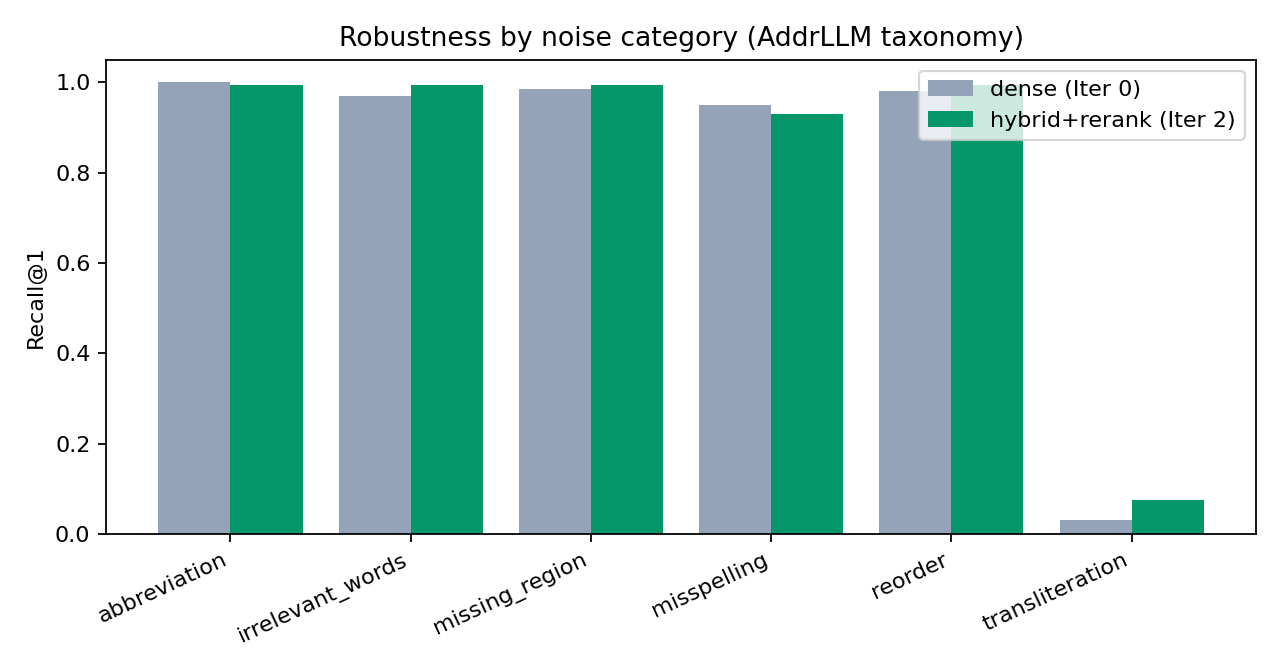
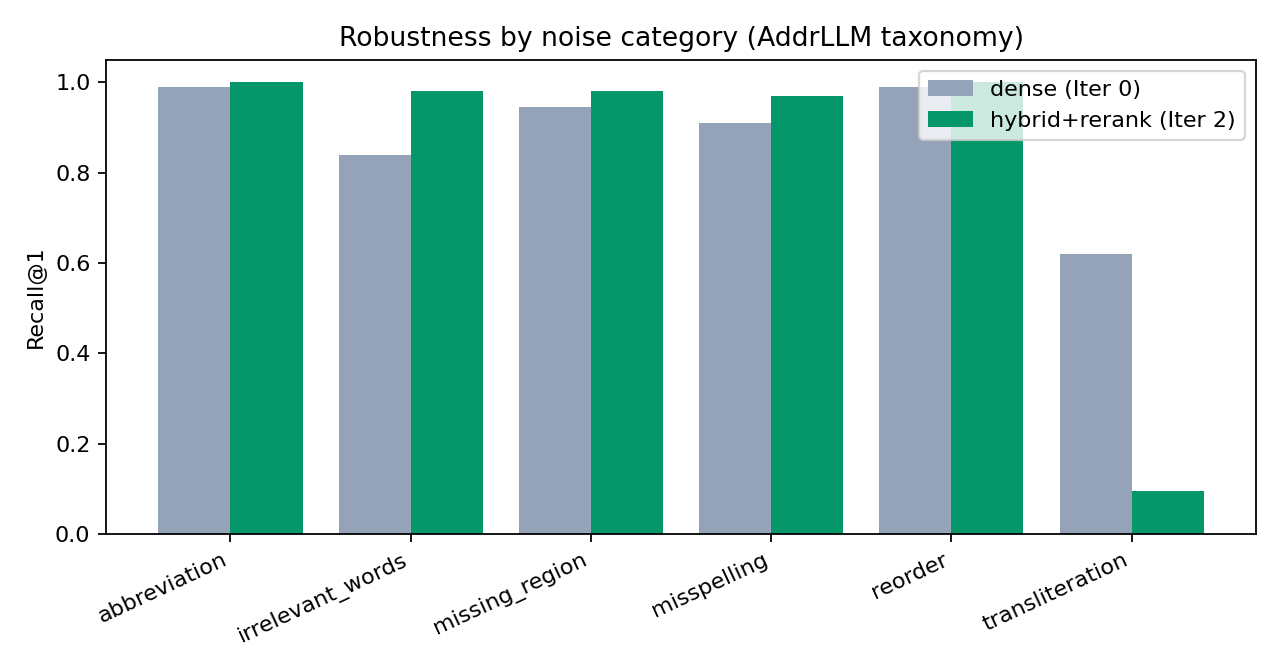
Add defense presentation (6 mandatory questions) + neural-vs-char figure

diff --git a/presentation.html b/presentation.html
@@ -1,0 +1,184 @@
+<!DOCTYPE html>
+<html lang="ru">
+<head>
+<meta charset="UTF-8">
+<meta name="viewport" content="width=device-width, initial-scale=1.0">
+<title>Нормализация адресов — защита проекта</title>
+<style>
+  :root{--bg:#0f1117;--panel:#171a23;--text:#e6e9ef;--muted:#9aa3b2;--accent:#6ea8fe;--accent2:#7ee787;--border:#262b38;--code:#1d212c;--warn:#ffbf69}
+  *{box-sizing:border-box}
+  body{margin:0;background:var(--bg);color:var(--text);font:17px/1.55 -apple-system,Segoe UI,Roboto,Arial,sans-serif}
+  .slide{min-height:100vh;padding:6vh 8vw;border-bottom:1px solid var(--border);display:flex;flex-direction:column;justify-content:center;position:relative}
+  .num{position:absolute;top:18px;right:26px;color:var(--muted);font-size:13px}
+  .q{color:var(--accent);font-size:14px;letter-spacing:.08em;text-transform:uppercase;margin-bottom:8px}
+  h1{font-size:40px;margin:0 0 10px;line-height:1.15}
+  h2{font-size:30px;margin:0 0 16px;line-height:1.2}
+  p{margin:8px 0;font-size:19px}
+  ul{margin:8px 0;padding-left:24px}
+  li{margin:7px 0;font-size:18px}
+  strong{color:#fff}
+  code{font-family:Consolas,Monaco,monospace;background:var(--code);padding:1px 6px;border-radius:5px;color:#d9e1ff;font-size:.88em}
+  .flow{background:var(--code);border-left:3px solid var(--accent);border-radius:8px;padding:12px 16px;margin:12px 0;font-family:Consolas,Monaco,monospace;color:#cfe2ff;overflow-x:auto;font-size:15px;white-space:pre;line-height:1.5}
+  .key{border-left:3px solid var(--accent2);background:rgba(126,231,135,.08);padding:12px 16px;border-radius:8px;margin:12px 0;font-size:18px}
+  .warn{border-left:3px solid var(--warn);background:rgba(255,191,105,.09);padding:12px 16px;border-radius:8px;margin:12px 0;font-size:18px}
+  table{border-collapse:collapse;margin:12px 0;font-size:17px}
+  th,td{border:1px solid var(--border);padding:8px 14px;text-align:left}
+  th{background:var(--panel);color:#fff}
+  img{max-width:min(760px,80vw);border:1px solid var(--border);border-radius:8px;margin:10px 0}
+  .big{font-size:26px;color:var(--accent2);font-weight:600}
+  @media print{body{font-size:13px}.slide{min-height:auto;page-break-after:always;border:none;padding:14mm}img{max-width:150mm}@page{size:A4 landscape;margin:0}}
+</style>
+</head>
+<body>
+
+<section class="slide">
+  <div class="num">1</div>
+  <h1>🏠 Нормализация адресов<br>через векторный поиск</h1>
+  <p style="color:var(--muted)">Deep Learning for Search 2026 · Innopolis · вдохновлено AddrLLM (JD Logistics, SIGIR-класс, arXiv 2411.13584)</p>
+  <p class="big">Грязная строка адреса → канонический объект с координатами</p>
+</section>
+
+<section class="slide">
+  <div class="num">2</div>
+  <div class="q">Вопрос 1 — ценность и кому нужно</div>
+  <h2>Value proposition</h2>
+  <p><strong>Проблема:</strong> адреса приходят в свободной форме — опечатки, сокращения, транслит, пропуски, перестановки. Это ломает доставку, дедупликацию клиентов, геокодинг, KYC.</p>
+  <ul>
+    <li><strong>Кому:</strong> логистика/e-commerce, банки/страховые (KYC), гос/ЖКХ, CRM (дедуп).</li>
+    <li><strong>Наше решение:</strong> open-source, self-hosted, офлайн — приватная альтернатива платному DaData.</li>
+    <li><strong>RAG-принцип:</strong> знания в индексе, не в весах → база адресов обновляется <em>без переобучения модели</em>.</li>
+  </ul>
+  <div class="key">Бизнес-эффект (AddrLLM на JD): −43% пересорта посылок, ~$2M/год экономии. Ошибка адреса = реальные деньги.</div>
+</section>
+
+<section class="slide">
+  <div class="num">3</div>
+  <div class="q">Задача</div>
+  <h2>Это не классификация — это поиск (matching)</h2>
+  <div class="flow">Дано:  база N≥500k канонических адресов (с координатами)
+Вход:  грязный адрес q  ("мск ленинский пр-т 12 к3", "ul Baumana 15")
+Цель:  c* = argmax cos(q, c)  →  канонический объект + id + координаты</div>
+  <p>Сигнал смешанный: <strong>семантический</strong> (сокращения, транслит) + <strong>символьный/лексический</strong> (опечатки, номера домов) → это ровно кейс для нейро-эмбеддингов + гибрида.</p>
+</section>
+
+<section class="slide">
+  <div class="num">4</div>
+  <div class="q">Вопрос 2 — архитектура</div>
+  <h2>Архитектура системы</h2>
+  <div class="flow">BUILD (офлайн):
+  OSM (Overpass) → канон.строки + координаты + метаданные
+   → энкодер → векторы → индекс (HNSW / IVF-PQ)
+
+QUERY (онлайн, &lt;100 мс):
+  грязный адрес → энкодер → ANN(HNSW, косинус) → top-k
+   → [опц.] нейро cross-encoder реранк → канонический объект + id + (lat,lon)</div>
+  <p>5 обязательных элементов: <strong>модель</strong> (эмбеддер), <strong>векторная БД</strong> (FAISS/Qdrant), <strong>индекс</strong> (HNSW/IVF-PQ), <strong>поиск</strong> (косинус + гибрид/реранк).</p>
+</section>
+
+<section class="slide">
+  <div class="num">5</div>
+  <div class="q">Вопрос 3 — технологии и обоснование</div>
+  <h2>Ключевые технологии</h2>
+  <table>
+    <tr><th>Компонент</th><th>Выбор</th><th>Почему (по замерам)</th></tr>
+    <tr><td>Данные</td><td>OpenStreetMap / Overpass</td><td>открыто, ≥500k, есть координаты</td></tr>
+    <tr><td>Эмбеддер</td><td>multilingual-e5 / USER-bge-m3</td><td>многоязычный → чинит транслит; 384-d (компактный)</td></tr>
+    <tr><td>Индекс</td><td>FAISS HNSW / IVF-PQ</td><td>×110 быстрее / ×130 меньше памяти</td></tr>
+    <tr><td>Sparse</td><td>char-n-gram + BM25</td><td>устойчивость к опечаткам / точные токены</td></tr>
+    <tr><td>Слияние/реранк</td><td>RRF + cross-encoder</td><td>только где сигналы комплементарны</td></tr>
+  </table>
+  <p style="color:var(--muted)">Каждый выбор подкреплён числом в сравнительной таблице, а не «по моде».</p>
+</section>
+
+<section class="slide">
+  <div class="num">6</div>
+  <div class="q">Вопрос 4 — экспериментальный пайплайн</div>
+  <h2>Как ставим эксперименты и оцениваем</h2>
+  <ul>
+    <li><strong>Валидация без ручной разметки:</strong> генератор синтетического шума по <em>таксономии AddrLLM</em> (опечатки, сокращения, пропуск региона, мусор, перестановка, транслит) → каждый запрос привязан к известному id.</li>
+    <li><strong>Метрики (руками):</strong> Recall@1/5/10, MRR@10, nDCG@10, гео <strong>Acc@300/500m</strong>; + latency p50/p95/p99, память, время индекса.</li>
+    <li><strong>3+ итерации:</strong> char-baseline → индекс/квантизация (Pareto) → нейро-энкодер → дообучение + geo-голова.</li>
+  </ul>
+  <div class="key">Всё логируется в <code>results_*.json</code> + графики → воспроизводимо (seed 20260605).</div>
+</section>
+
+<section class="slide">
+  <div class="num">7</div>
+  <div class="q">Результаты — эффективность индекса (реальные 80k)</div>
+  <h2>Pareto: recall ↔ скорость ↔ память</h2>
+  <img src="figures/index_compare.png" alt="index comparison">
+  <p>Flat 0.82 / 1310 МБ / 31 мс → <strong>HNSW</strong> 0.74 / <strong>0.28 мс</strong> (×110) → <strong>IVF-PQ</strong> 0.54 / <strong>10 МБ</strong> (×130). IVF-PQ требует exact re-rank для восстановления recall (урок L9).</p>
+</section>
+
+<section class="slide">
+  <div class="num">8</div>
+  <div class="q">Результаты — главный выигрыш</div>
+  <h2>Нейро-энкодер чинит транслитерацию</h2>
+  <img src="figures/neural_vs_char.png" alt="neural vs char">
+  <p><span class="big">transliteration: 0.04 → 0.67</span> · R@1 0.82→0.86 · Acc@500m 0.83→0.92 · вектор <strong>384-d</strong> (меньше char-n-gram 4096) и быстрее.</p>
+</section>
+
+<section class="slide">
+  <div class="num">9</div>
+  <div class="q">Результаты — честная находка</div>
+  <h2>Гибрид/реранк — не серебряная пуля</h2>
+  <table>
+    <tr><th>Система (8k)</th><th>R@1</th><th>transliteration</th></tr>
+    <tr><td>нейро dense (один)</td><td class="big">0.88</td><td>0.62</td></tr>
+    <tr><td>нейро + BM25 (RRF)</td><td>0.83</td><td>0.25</td></tr>
+    <tr><td>+ лексический реранк</td><td>0.84</td><td>0.10</td></tr>
+  </table>
+  <div class="warn">Когда один ретривер сильно доминирует, слияние со слабым BM25 <strong>тянет вниз</strong> (0.88→0.83); лексический реранк <strong>ломает транслит</strong> (0.62→0.10) — латиница≠кириллица. Вывод (урок L8): гибрид/реранк применять <em>с умом</em>, реранк — только <em>нейро</em> cross-encoder.</div>
+</section>
+
+<section class="slide">
+  <div class="num">10</div>
+  <div class="q">Вопрос 5 — что эффективнее и почему</div>
+  <h2>Рекомендуемая архитектура</h2>
+  <div class="flow">нейро multilingual-энкодер → HNSW  (основа: R@1 0.88, 384-d, p50 0.02 мс)
+   + int8/PQ + exact re-rank      (память ×4–30 без потери качества)
+   + нейро cross-encoder реранк   (только на shortlist, где помогает)</div>
+  <ul>
+    <li><strong>Почему:</strong> нейро-dense — лучший одиночный по recall и по транслиту, при меньшем векторе и суб-мс задержке.</li>
+    <li><strong>Почему не «всё сразу»:</strong> измерили — наивный гибрид и лексический реранк здесь вредят.</li>
+  </ul>
+</section>
+
+<section class="slide">
+  <div class="num">11</div>
+  <div class="q">Вопрос 6 — требования к железу</div>
+  <h2>Dev vs Inference</h2>
+  <table>
+    <tr><th></th><th>Development (офлайн)</th><th>Inference (онлайн)</th></tr>
+    <tr><td>Что</td><td>эмбеддинг базы, дообучение, построение индекса</td><td>эмбеддинг запроса + ANN + реранк</td></tr>
+    <tr><td>Железо</td><td>GPU (или CPU медленнее); диск под модель ~0.5–2 ГБ</td><td><strong>CPU-servable</strong></td></tr>
+    <tr><td>Память</td><td>~1–3 ГБ при построении</td><td>80k нейро-векторов ≈ <strong>123 МБ</strong> (int8/PQ ещё меньше)</td></tr>
+    <tr><td>Задержка</td><td>часы (один раз)</td><td>HNSW p50 <strong>0.02 мс</strong> поиска; полный путь &lt;100 мс</td></tr>
+  </table>
+  <p style="color:var(--muted)">Квантизация + дистилляция → инференс без GPU.</p>
+</section>
+
+<section class="slide">
+  <div class="num">12</div>
+  <div class="q">Связь с наукой</div>
+  <h2>Что взяли из AddrLLM и что — нет</h2>
+  <ul>
+    <li>✅ <strong>Взяли:</strong> идею geocoding-aware энкодера (эмбеддинг ∝ гео-расстоянию), таксономию ошибок, метрику robustness, retrieve-then-read.</li>
+    <li>❌ <strong>Не делали:</strong> SFT 7B-LLM + PPO/RL + кластер 10×H800 — вне бюджета. Мы фокусируемся на <em>ретривере</em> — векторном ядре, которое и есть предмет курса.</li>
+  </ul>
+  <div class="key">Честный scope: масштабировали вниз именно ту часть AddrLLM, что относится к векторному поиску.</div>
+</section>
+
+<section class="slide">
+  <div class="num">13</div>
+  <div class="q">Итог</div>
+  <h2>Что сделано и что дальше</h2>
+  <ul>
+    <li><strong>Сделано:</strong> реальные данные OSM (+координаты), 3 итерации, нейро-энкодер (транслит 0.04→0.67), Pareto индексов/квантизации, гибрид+реранк, гео-метрика, сервис (FastAPI+UI), воспроизводимо, в git.</li>
+    <li><strong>Дальше:</strong> добор до ≥500k (мультирегион), дообучение + geo-голова, нейро cross-encoder реранк.</li>
+  </ul>
+  <p style="color:var(--muted)">Репозиторий: github.com/yathebest/project_dlc · демо: <code>uvicorn service.app:app</code></p>
+</section>
+
+</body>
+</html>

diff --git a/make_plots.py b/make_plots.py
@@ -84,9 +84,27 @@ def fig_hybrid():
     plt.close(fig)
 
 
+def fig_neural():
+    ch = load("results_char8k.json")["metrics"]["per_category_recall_at_1"]
+    st = load("results_st8k.json")["metrics"]["per_category_recall_at_1"]
+    cats = sorted(ch)
+    fig, ax = plt.subplots(figsize=(8, 4.2))
+    x = range(len(cats))
+    ax.bar([i - 0.2 for i in x], [ch[c] for c in cats], width=0.4, color=GREY,
+           label="char-n-gram")
+    ax.bar([i + 0.2 for i in x], [st[c] for c in cats], width=0.4, color=BLUE,
+           label="neural (e5-small)")
+    ax.set_xticks(list(x)); ax.set_xticklabels(cats, rotation=25, ha="right")
+    ax.set_ylabel("Recall@1"); ax.legend()
+    ax.set_title("Neural encoder fixes transliteration (real data, 8k)")
+    fig.tight_layout(); fig.savefig("figures/neural_vs_char.png", dpi=160)
+    plt.close(fig)
+
+
 def main():
     made = []
-    for name, fn in [("shrink", fig_shrink), ("index", fig_index), ("hybrid", fig_hybrid)]:
+    for name, fn in [("shrink", fig_shrink), ("index", fig_index),
+                     ("hybrid", fig_hybrid), ("neural", fig_neural)]:
         try:
             fn(); made.append(name)
         except FileNotFoundError as e:

diff --git a/build_dataset.py b/build_dataset.py
@@ -21,10 +21,22 @@ from src.data import save_canon
 # (city, region, bbox=(south, west, north, east)) — bbox is reliable; area-by-name
 # often fails on Overpass. Add more/larger boxes to reach >=500k.
 CITY_BBOX = [
-    ("Иннополис", "Республика Татарстан", (55.73, 48.72, 55.77, 48.80)),
     ("Казань", "Республика Татарстан", (55.60, 48.90, 55.90, 49.35)),
     ("Набережные Челны", "Республика Татарстан", (55.66, 52.22, 55.80, 52.48)),
-    ("Зеленодольск", "Республика Татарстан", (55.82, 48.45, 55.90, 48.62)),
+    ("Новосибирск", "Новосибирская область", (54.92, 82.78, 55.12, 83.10)),
+    ("Екатеринбург", "Свердловская область", (56.72, 60.45, 56.92, 60.75)),
+    ("Нижний Новгород", "Нижегородская область", (56.20, 43.80, 56.38, 44.15)),
+    ("Самара", "Самарская область", (53.12, 50.00, 53.30, 50.35)),
+    ("Уфа", "Республика Башкортостан", (54.64, 55.85, 54.86, 56.15)),
+    ("Челябинск", "Челябинская область", (55.06, 61.25, 55.26, 61.55)),
+    ("Ростов-на-Дону", "Ростовская область", (47.18, 39.55, 47.32, 39.85)),
+    ("Воронеж", "Воронежская область", (51.58, 39.05, 51.78, 39.35)),
+    ("Пермь", "Пермский край", (57.90, 56.10, 58.08, 56.40)),
+    ("Омск", "Омская область", (54.88, 73.20, 55.08, 73.50)),
+    ("Красноярск", "Красноярский край", (55.95, 92.70, 56.10, 93.00)),
+    ("Волгоград", "Волгоградская область", (48.55, 44.35, 48.85, 44.60)),
+    ("Санкт-Петербург", "Санкт-Петербург", (59.83, 30.15, 60.05, 30.55)),
+    ("Москва", "Москва", (55.60, 37.40, 55.90, 37.85)),
 ]
 
 